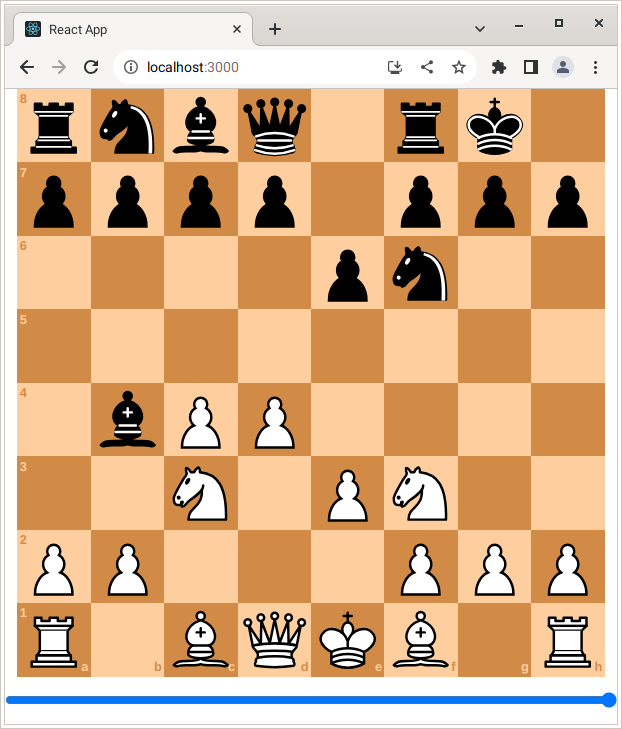
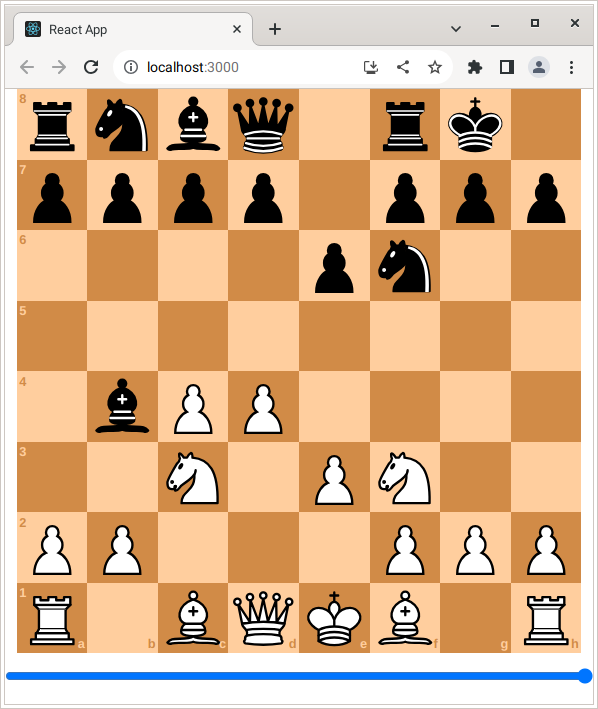
Documented RavMovesTable

diff --git a/README.md b/README.md
@@ -72,8 +72,7 @@ export default App;
 
 #### Initialize a SAN Moves Table
 
-The `HistoryButtons` and `SanMovesTable` components can be combined to allow browsing
-through the history of SAN moves.
+SAN stands for Standard Algebraic Notation. It is a human-readable text format that allows chess players to read and write chess games in Portable Game Notation (PGN) format. A SAN movetext is basically the same thing as a RAV movetext with the only difference that it doesn't include variations. The `HistoryButtons` and `SanMovesTable` components can be combined to allow browsing through the history of SAN moves.
 
 ```js
 import { HistoryButtons, SanMovesTable } from '@chesslablab/reactblab';
@@ -128,6 +127,120 @@ export default App;
 ```
 
 ![Figure 3](/assets/figure_03.png)
+
+#### Initialize a RAV Moves Table
+
+RAV stands for Recursive Annotation Variation. It is the standard format for annotated chess games. The `HistoryButtons` and `RavMovesTable` components can be combined to allow browsing through the history of RAV moves.
+
+```js
+import { HistoryButtons, RavMovesTable } from '@chesslablab/reactblab';
+
+function App() {
+  const back = 0;
+
+  const filtered = "{Adapted notes, originally by J. R. Capablanca.} 1.d4 d5 2.Nf3 e6 3.c4 Nf6 4.Bg5 Be7 5.e3 Nbd7 6.Nc3 O-O 7.Rc1 c6 8.Qc2 c5 {is not a recommended move.} 9.Rd1 (9.cxd5 {would have been proper to continue.}) 9...Qa5 10.cxd5 Nxd5 11.Bxe7 Nxe7 12.Bd3 Nf6 13.O-O cxd4 14.Nxd4 (14.exd4 {was the alternative. It would have left, however, to a very difficult game where, in exchange for the attack, White would remain with an isolated queen\u0027s pawn; leading at this stage of the match by one point, I did not want to take any risks.}) 14...Bd7 15.Ne4 Ned5 16.Nb3 Qd8 17.Nxf6+ Nxf6 18.Qc5 Qb6 {neutralizes whatever little advantage White might have had. The draw is now insight.} 19.Rc1 Rfc8 20.Qxb6 axb6 21.Rxc8+ Rxc8 22.Rc1 Rxc1+ 23.Nxc1 Kf8";
+
+  const breakdown = [
+    "{Adapted notes, originally by J. R. Capablanca.} 1.d4 d5 2.Nf3 e6 3.c4 Nf6 4.Bg5 Be7 5.e3 Nbd7 6.Nc3 O-O 7.Rc1 c6 8.Qc2 c5 {is not a recommended move.} 9.Rd1",
+    "9.cxd5 {would have been proper to continue.}",
+    "9...Qa5 10.cxd5 Nxd5 11.Bxe7 Nxe7 12.Bd3 Nf6 13.O-O cxd4 14.Nxd4",
+    "14.exd4 {was the alternative. It would have left, however, to a very difficult game where, in exchange for the attack, White would remain with an isolated queen\u0027s pawn; leading at this stage of the match by one point, I did not want to take any risks.}",
+    "14...Bd7 15.Ne4 Ned5 16.Nb3 Qd8 17.Nxf6+ Nxf6 18.Qc5 Qb6 {neutralizes whatever little advantage White might have had. The draw is now insight.} 19.Rc1 Rfc8 20.Qxb6 axb6 21.Rxc8+ Rxc8 22.Rc1 Rxc1+ 23.Nxc1 Kf8"
+  ];
+
+  const fen = [
+    "rnbqkbnr/pppppppp/8/8/8/8/PPPPPPPP/RNBQKBNR w KQkq -",
+    "rnbqkbnr/pppppppp/8/8/3P4/8/PPP1PPPP/RNBQKBNR b KQkq d3",
+    "rnbqkbnr/ppp1pppp/8/3p4/3P4/8/PPP1PPPP/RNBQKBNR w KQkq d6",
+    "rnbqkbnr/ppp1pppp/8/3p4/3P4/5N2/PPP1PPPP/RNBQKB1R b KQkq -",
+    "rnbqkbnr/ppp2ppp/4p3/3p4/3P4/5N2/PPP1PPPP/RNBQKB1R w KQkq -",
+    "rnbqkbnr/ppp2ppp/4p3/3p4/2PP4/5N2/PP2PPPP/RNBQKB1R b KQkq c3",
+    "rnbqkb1r/ppp2ppp/4pn2/3p4/2PP4/5N2/PP2PPPP/RNBQKB1R w KQkq -",
+    "rnbqkb1r/ppp2ppp/4pn2/3p2B1/2PP4/5N2/PP2PPPP/RN1QKB1R b KQkq -",
+    "rnbqk2r/ppp1bppp/4pn2/3p2B1/2PP4/5N2/PP2PPPP/RN1QKB1R w KQkq -",
+    "rnbqk2r/ppp1bppp/4pn2/3p2B1/2PP4/4PN2/PP3PPP/RN1QKB1R b KQkq -",
+    "r1bqk2r/pppnbppp/4pn2/3p2B1/2PP4/4PN2/PP3PPP/RN1QKB1R w KQkq -",
+    "r1bqk2r/pppnbppp/4pn2/3p2B1/2PP4/2N1PN2/PP3PPP/R2QKB1R b KQkq -",
+    "r1bq1rk1/pppnbppp/4pn2/3p2B1/2PP4/2N1PN2/PP3PPP/R2QKB1R w KQ -",
+    "r1bq1rk1/pppnbppp/4pn2/3p2B1/2PP4/2N1PN2/PP3PPP/2RQKB1R b K -",
+    "r1bq1rk1/pp1nbppp/2p1pn2/3p2B1/2PP4/2N1PN2/PP3PPP/2RQKB1R w K -",
+    "r1bq1rk1/pp1nbppp/2p1pn2/3p2B1/2PP4/2N1PN2/PPQ2PPP/2R1KB1R b K -",
+    "r1bq1rk1/pp1nbppp/4pn2/2pp2B1/2PP4/2N1PN2/PPQ2PPP/2R1KB1R w K -",
+    "r1bq1rk1/pp1nbppp/4pn2/2pp2B1/2PP4/2N1PN2/PPQ2PPP/3RKB1R b K -",
+    "r1bq1rk1/pp1nbppp/4pn2/2pP2B1/3P4/2N1PN2/PPQ2PPP/2R1KB1R b KQ -",
+    "r1b2rk1/pp1nbppp/4pn2/q1pp2B1/2PP4/2N1PN2/PPQ2PPP/3RKB1R w K -",
+    "r1b2rk1/pp1nbppp/4pn2/q1pP2B1/3P4/2N1PN2/PPQ2PPP/3RKB1R b K -",
+    "r1b2rk1/pp1nbppp/4p3/q1pn2B1/3P4/2N1PN2/PPQ2PPP/3RKB1R w K -",
+    "r1b2rk1/pp1nBppp/4p3/q1pn4/3P4/2N1PN2/PPQ2PPP/3RKB1R b K -",
+    "r1b2rk1/pp1nnppp/4p3/q1p5/3P4/2N1PN2/PPQ2PPP/3RKB1R w K -",
+    "r1b2rk1/pp1nnppp/4p3/q1p5/3P4/2NBPN2/PPQ2PPP/3RK2R b K -",
+    "r1b2rk1/pp2nppp/4pn2/q1p5/3P4/2NBPN2/PPQ2PPP/3RK2R w K -",
+    "r1b2rk1/pp2nppp/4pn2/q1p5/3P4/2NBPN2/PPQ2PPP/3R1RK1 b - -",
+    "r1b2rk1/pp2nppp/4pn2/q7/3p4/2NBPN2/PPQ2PPP/3R1RK1 w - -",
+    "r1b2rk1/pp2nppp/4pn2/q7/3N4/2NBP3/PPQ2PPP/3R1RK1 b - -",
+    "r1b2rk1/pp2nppp/4pn2/q7/3P4/2NB1N2/PPQ2PPP/3R1RK1 b - -",
+    "r4rk1/pp1bnppp/4pn2/q7/3N4/2NBP3/PPQ2PPP/3R1RK1 w - -",
+    "r4rk1/pp1bnppp/4pn2/q7/3NN3/3BP3/PPQ2PPP/3R1RK1 b - -",
+    "r4rk1/pp1b1ppp/4pn2/q2n4/3NN3/3BP3/PPQ2PPP/3R1RK1 w - -",
+    "r4rk1/pp1b1ppp/4pn2/q2n4/4N3/1N1BP3/PPQ2PPP/3R1RK1 b - -",
+    "r2q1rk1/pp1b1ppp/4pn2/3n4/4N3/1N1BP3/PPQ2PPP/3R1RK1 w - -",
+    "r2q1rk1/pp1b1ppp/4pN2/3n4/8/1N1BP3/PPQ2PPP/3R1RK1 b - -",
+    "r2q1rk1/pp1b1ppp/4pn2/8/8/1N1BP3/PPQ2PPP/3R1RK1 w - -",
+    "r2q1rk1/pp1b1ppp/4pn2/2Q5/8/1N1BP3/PP3PPP/3R1RK1 b - -",
+    "r4rk1/pp1b1ppp/1q2pn2/2Q5/8/1N1BP3/PP3PPP/3R1RK1 w - -",
+    "r4rk1/pp1b1ppp/1q2pn2/2Q5/8/1N1BP3/PP3PPP/2R2RK1 b - -",
+    "r1r3k1/pp1b1ppp/1q2pn2/2Q5/8/1N1BP3/PP3PPP/2R2RK1 w - -",
+    "r1r3k1/pp1b1ppp/1Q2pn2/8/8/1N1BP3/PP3PPP/2R2RK1 b - -",
+    "r1r3k1/1p1b1ppp/1p2pn2/8/8/1N1BP3/PP3PPP/2R2RK1 w - -",
+    "r1R3k1/1p1b1ppp/1p2pn2/8/8/1N1BP3/PP3PPP/5RK1 b - -",
+    "2r3k1/1p1b1ppp/1p2pn2/8/8/1N1BP3/PP3PPP/5RK1 w - -",
+    "2r3k1/1p1b1ppp/1p2pn2/8/8/1N1BP3/PP3PPP/2R3K1 b - -",
+    "6k1/1p1b1ppp/1p2pn2/8/8/1N1BP3/PP3PPP/2r3K1 w - -",
+    "6k1/1p1b1ppp/1p2pn2/8/8/3BP3/PP3PPP/2N3K1 b - -",
+    "5k2/1p1b1ppp/1p2pn2/8/8/3BP3/PP3PPP/2N3K1 w - -"
+  ];
+
+  return (
+    <>
+      <HistoryButtons
+        stateHistoryButtons={{
+          back: back,
+          fen: fen,
+        }}
+        onFastRewindClick={() => {
+          // Implement on fast rewind logic.
+        }}
+        onSkipPreviousClick={() => {
+          // Implement on skip previous logic.
+        }}
+        onSkipNextClick={() => {
+          // Implement on skip next logic.
+        }}
+        onFastForwardClick={() => {
+          // Implement on fast forward logic.
+        }}
+      />
+      <RavMovesTable
+        stateRavMovesTable={{
+          back: back,
+          filtered: filtered,
+          breakdown: breakdown,
+          fen: fen,
+        }}
+        onCellClick={() => {
+          // Implement on cell click logic.
+        }}
+      />
+    </>
+  );
+}
+
+export default App;
+```
+
+![Figure 4](/assets/figure_04.png)
+
+This RAV reader displays the variation levels in different shades of gray. It is a 2D scrollable HTML table where the main line is shown in a white background color. The deeper the level, the darker the background color is displayed.
 
 ### Contributions
 
